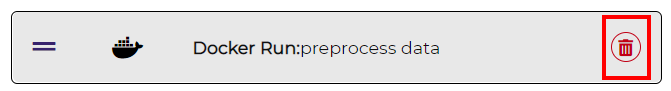
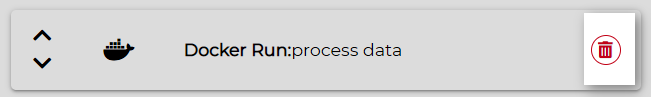
Update the pipeline page

diff --git a/user/pipeline.rst b/user/pipeline.rst
@@ -77,13 +77,11 @@ To delete a pipeline action:
 
 To re-order the pipeline actions:
 
-#) Press on the *re-order* label. Hold the mouse button.
-#) Drag the action onward or downward to the new location.
+#) Hover over the left side of action.
+#) Click on the *upward* or *downward* button to adjustion the action order.
 
     .. image:: /_static/imgs/user/pipeline/reorder_action_1.png
         :width: 300
-
-#) Release the mouse button.
 
 Run a Pipeline
 ==============
@@ -96,7 +94,7 @@ To run the Pipeline:
 
     .. image:: /_static/imgs/user/get_started/run_pipeline_1_1.png
         :width: 300
-    
+
     .. note::
         A pipeline run may be delayed for a while
         if the system is busy on processing other labs or pipeline runs.
